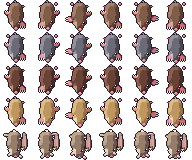
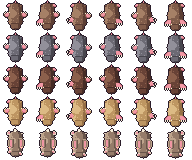
파 내려가기 그림: 위에서 본 뒷모습으로(머리 아래·등이 우리 쪽), Naïl 털빛 넷 + 모모 (0156)
- 사장: "머리가 아래로, 등을 우리가 보는 각도로. 앞발 귀엽게 파면서 내려가는.. 굴토끼도 동일한 카메라 앵글로".
- dig.py: 몸통 줄마다 폭으로 음영(왼쪽 밝음·오른쪽 그늘) + 어깨 하이라이트 + 목 주름 아래 어두운 머리.
  삽 앞발(넓은 분홍 손바닥 + 크림 발톱) 6동작, 뒷발 차기, 꼬리. 부위는 몸통 가장자리를 재서 겹쳐 붙인다.
  모모: 솜꼬리·등에 누운 긴 귀·귀 밑동 꽃·작은 앞발·큰 뒷발.

Claude-Session: https://claude.ai/code/session_01VNXEyeHwdhsn4oiHYXtNpM

diff --git a/tools/art/dig.py b/tools/art/dig.py
@@ -4,13 +4,15 @@
 실행: python3 tools/art/dig.py [출력 경로]   (기본 assets/art/dig.png)
 줄 0 Naïl 기본 털, 줄 1~3 털빛 1~3(nail.py FURS), 줄 4 돌아온 모모. 칸 0~5 = 한 번 긁는 동작(초당 12칸으로 돈다).
 
+카메라(사장 지시 2026-10-27): 머리가 아래(땅 쪽), 등이 위(우리 쪽). 위에서 내려다보는 뒷모습이라 얼굴은 안 보이고
+등·엉덩이·꼬리·뒷발바닥이 보인다. 앞발은 어깨 양옆에서 땅을 긁어 뒤(위)로 흙을 넘긴다.
+
 그리는 법:
-  - 몸은 타원 몇 개를 합친 덩어리. 칸마다 테두리까지의 거리로 기울기를 어림해 왼쪽 위 빛으로 세 단(d·b·h)을 고르고,
-    왼쪽 아래(배·주둥이 쪽)는 밝은 털(l). 외곽선(o)은 nail.py처럼 자동.
-  - 얼굴(눈·볼·코)과 앞발(분홍 손바닥 + 크림 발톱 다섯)은 글자 격자를 손으로 찍어 얹는다. 도형으로 그리면 작은 부위가 뭉개진다(0070).
-  - 머리를 아래로 한 옆모습: 위가 엉덩이·꼬리, 아래가 코, 얼굴은 오른쪽을 본다.
+  - 몸은 타원 몇 개를 합친 덩어리. 음영은 그 줄의 몸통 폭에서 어디쯤인가로 정한다(왼쪽 가장자리 밝음 h, 가운데 b,
+    오른쪽 가장자리 그늘 d) → 원통처럼 읽힌다. 등 가운데에는 털 결 점(h)을 드문드문.
+  - 앞발(삽: 분홍 손바닥 + 크림 발톱)·뒷발·꼬리·귀·꽃은 글자 격자를 손으로 찍어 얹는다. 도형으로 그리면 작은 부위가 뭉개진다(0070).
+  - 외곽선(o)은 nail.py처럼 자동.
 """
-import math
 import sys
 
 from PIL import Image
@@ -20,6 +22,11 @@ NAIL = {
     'o': (43, 29, 42), 'd': (92, 62, 52), 'b': (128, 92, 74), 'h': (166, 128, 102), 'l': (206, 172, 142),
     'p': (242, 152, 164), 'q': (200, 104, 124), 'c': (248, 238, 216), 'C': (206, 190, 164),
     'e': (26, 16, 32), 'w': (255, 255, 255), 'r': (236, 132, 132),
+}
+MOMO = {
+    'o': (43, 29, 42), 'd': (104, 84, 74), 'b': (150, 124, 106), 'h': (190, 164, 140), 'l': (228, 212, 192),
+    'p': (240, 150, 164), 'q': (196, 104, 124), 'c': (248, 238, 218), 'C': (214, 200, 182),
+    'n': (40, 26, 40), 'W': (255, 255, 255), 'r': (236, 132, 140), 'F': (255, 168, 196), 'Y': (255, 226, 120),
 }
 
 
@@ -35,38 +42,70 @@ def put(g, x, y, rows):
                 g[y + j][x + i] = ch
 
 
-def body(ellipses, light=(-0.6, -0.8), belly=None):
-    """타원 (cx, cy, rx, ry) 합집합을 세 단 명암으로. belly(x, y) -> bool 이면 그 칸은 밝은 털."""
+def flip(rows):
+    return [r[::-1] for r in rows]
+
+
+def inside_of(ellipses):
+    return [[any(((x + .5 - cx) / rx) ** 2 + ((y + .5 - cy) / ry) ** 2 <= 1 for cx, cy, rx, ry in ellipses)
+             for x in range(S)] for y in range(S)]
+
+
+def back(ellipses, grain=(), hump=None):
+    """등을 위에서 본 몸통: 줄마다 몸통 폭의 왼쪽 22%는 밝음(h), 오른쪽 26%는 그늘(d), 가운데 털(b).
+    맨 아래 두 줄(머리 끝)과 맨 위 줄(엉덩이 끝)은 그늘로 돌려 둥글게. grain = 털 결 점 (x, y)."""
+    ins = inside_of(ellipses)
     g = blank()
-    inside = [[any(((x + .5 - cx) / rx) ** 2 + ((y + .5 - cy) / ry) ** 2 <= 1 for cx, cy, rx, ry in ellipses)
-               for x in range(S)] for y in range(S)]
-    for y in range(S):
-        for x in range(S):
-            if not inside[y][x]:
-                continue
-            # 기울기: 가까운 테두리 방향(바깥으로 향하는 쪽)을 둘레 칸 수로 어림.
-            nx = ny = 0.0
-            for dy in range(-3, 4):
-                for dx in range(-3, 4):
-                    xx, yy = x + dx, y + dy
-                    out = not (0 <= xx < S and 0 <= yy < S and inside[yy][xx])
-                    if out:
-                        w = 1.0 / (dx * dx + dy * dy)
-                        nx += dx * w
-                        ny += dy * w
-            n = math.hypot(nx, ny)
-            k = 0.0 if n == 0 else (nx * light[0] + ny * light[1]) / n
-            edge = n > 0.35
-            if belly and belly(x, y):
-                ch = 'l'
-            elif edge and k > 0.35:
+    ys = [y for y in range(S) if any(ins[y])]
+    for y in ys:
+        xs = [x for x in range(S) if ins[y][x]]
+        x0, x1 = xs[0], xs[-1]
+        w = x1 - x0 + 1
+        for x in xs:
+            t = (x - x0 + 0.5) / w
+            if y >= ys[-1] - 1 or y == ys[0]:
+                ch = 'd' if t > 0.3 else 'b'
+            elif t < 0.22:
                 ch = 'h'
-            elif edge and k < -0.25:
+            elif t > 0.74:
                 ch = 'd'
             else:
                 ch = 'b'
             g[y][x] = ch
+    if hump:
+        # 어깨의 둥근 하이라이트(왼쪽 위 빛): 등이 부풀어 보인다.
+        hx, hy, hr = hump
+        for y in range(S):
+            for x in range(S):
+                if g[y][x] == 'b' and (x + .5 - hx) ** 2 + (y + .5 - hy) ** 2 <= hr * hr:
+                    g[y][x] = 'h'
+    for x, y in grain:
+        if g[y][x] == 'b':
+            g[y][x] = 'h'
     return g
+
+
+def head_shade(g, crease_y):
+    """머리(아래쪽)는 땅에 박히며 기울어 더 어둡다: crease_y 줄 가운데에 목 주름(d), 그 아래는 밝음(h)을 털(b)로."""
+    xs = [x for x in range(S) if g[crease_y][x] != '.']
+    if xs:
+        x0, x1 = xs[0], xs[-1]
+        for x in range(x0 + 2, x1 - 1):
+            if g[crease_y][x] in 'bh':
+                g[crease_y][x] = 'd'
+    for y in range(crease_y + 1, S):
+        for x in range(S):
+            if g[y][x] == 'h':
+                g[y][x] = 'b'
+
+
+def attach_x(ells, y, width, side, overlap=1):
+    """y줄에서 몸통 가장자리에 width 폭의 부위를 overlap만큼 겹쳐 붙일 x."""
+    ins = inside_of(ells)
+    xs = [x for x in range(S) if ins[min(max(y, 0), S - 1)][x]]
+    if not xs:
+        return 0 if side == 'L' else S - width
+    return xs[0] - width + overlap if side == 'L' else xs[-1] + 1 - overlap
 
 
 def outline(g):
@@ -84,152 +123,115 @@ def outline(g):
 
 
 # ---- Naïl ----
-# 엉덩이(위) → 어깨(가장 넓다) → 머리(아래로 좁아지는 주둥이).
-NAIL_BODY = [(15.5, 9.0, 6.5, 6.5), (15.5, 15.0, 8.0, 6.5), (15.5, 21.0, 6.5, 5.0), (15.5, 25.0, 4.0, 3.5)]
-
-# 얼굴: 오른쪽 아래(눈은 2×2 + 반사, 볼 홍조, 코는 둥근 분홍).
-FACE = [
-    "..we",
-    "..ee",
-    ".r..",
+# 위에서 본 두더지: 엉덩이(위, 둥글고 좁다) → 어깨(가장 넓다) → 머리(아래, 좁아지며 땅에 박힌다).
+NAIL_BODY = [(15.5, 9.5, 6.5, 6.5), (15.5, 15.5, 8.0, 7.0), (15.5, 21.5, 7.0, 5.5), (15.5, 26.0, 5.0, 3.5)]
+NAIL_GRAIN = [(13, 7), (17, 9), (12, 12), (18, 13), (14, 16), (17, 18), (13, 20), (16, 22)]
+TAIL = ["q", "p"]
+# 뒷발(위에서): 엉덩이 양옆. 찬 발은 발바닥(분홍)이 보인다.
+HIND_KICK = [".ppb", "pppb", "qqbb"]
+HIND_REST = ["bb", "db"]
+# 앞발(삽, 왼쪽 것. 오른쪽은 뒤집는다): 어깨에서 나온 팔(b)이 몸에 붙고, 넓은 분홍 손바닥에 크림 발톱.
+PAW_DOWN = [      # 내리긋기(코 옆, 발톱이 아래)
+    "...dbbb",
+    "..qpppb",
+    ".qppppb",
+    "qpppppd",
+    "pppppq.",
+    "c.c.c.c",
+    "c.c.c..",
 ]
-NOSE = [
-    ".pp.",
-    "pppq",
-    ".qq.",
+PAW_OUT = [       # 바깥으로 흙을 밀어냄: 손이 옆으로 누워 발톱이 바깥(왼쪽)을 향한다
+    "....pbbb",
+    "..cpppbb",
+    "c..ppppb",
+    "c.qpppb.",
+    "..cqqp..",
+    ".c......",
 ]
-# 앞발(삽): 분홍 손바닥 + 크림 발톱 다섯. 가까운(왼) 발은 밝게, 먼(오른) 발은 그늘 색(q·C).
-PAW_DOWN = [      # 아래로 내리긋는 손(발톱이 아래)
-    ".bpp.",
-    "bpppp",
-    "ppppp",
-    "pqppq",
-    "c.c.c",
-    "c.c.c",
+PAW_UP = [        # 뒤(위)로 당겨 올림: 손등(털)이 보이고 발톱이 위를 향한다
+    ".c.c.c",
+    "cbpppb",
+    "bppppb",
+    "bpppqb",
+    ".bqqb.",
 ]
-PAW_SIDE = [      # 옆으로 밀어내는 손(발톱이 바깥 = 왼쪽, 오른쪽 끝이 팔로 몸에 붙는다)
-    "..ppbb.",
-    "ccpppbb",
-    "..ppppb",
-    "ccqpppb",
-    "...qqb.",
-]
-PAW_UP = [        # 위로 당겨 올린 손(다음에 내리긋기 전, 발톱이 위)
-    "c.c.c",
-    "ppppp",
-    "bpppq",
-    ".bbb.",
-]
-
-
-def mirror(rows, far=True):
-    """오른쪽 발: 좌우를 뒤집고, 먼 쪽이라 그늘 색으로."""
-    m = {'p': 'q', 'c': 'C', 'b': 'd', 'h': 'b'} if far else {}
-    return [''.join(m.get(ch, ch) for ch in reversed(r)) for r in rows]
-
-
-def hind(g, left_up):
-    """뒷발: 엉덩이 양옆에서 흙을 찬다(위로 찬 발은 발바닥이 보인다)."""
-    if left_up:
-        put(g, 7, 3, ["pp", "qp"])
-        put(g, 22, 6, ["bq"])
-    else:
-        put(g, 8, 6, ["qb"])
-        put(g, 23, 3, ["pp", "pq"])
 
 
 def nail_frame(i):
-    # 칸마다 몸을 조금 늘이고 줄인다(1·4칸은 밀며 한 줄 내려감).
-    dy = [0, 0, 1, 0, 0, 1][i]
+    """여섯 칸: 0 둘 다 뒤로 당김, 1 왼손 내리긋기, 2 왼손 밀기, 3 오른손 내리긋기, 4 오른손 밀기, 5 둘 다 내리긋기.
+    밀거나 둘 다 긋는 칸은 몸 아래쪽이 한 줄 내려가(파고든다) 머리가 땅에 더 박힌다."""
+    dy = [0, 0, 1, 0, 1, 1][i]
     ell = [(cx, cy + dy * (k >= 2), rx, ry) for k, (cx, cy, rx, ry) in enumerate(NAIL_BODY)]
-    g = body(ell, belly=lambda x, y: x < 13 and y > 20 + dy and (x - 13) ** 2 + (y - 27) ** 2 < 40)
-    put(g, 17, 21 + dy, FACE)
-    put(g, 14, 27 + dy, NOSE)
-    put(g, 14, 1, ["qq"])  # 짧은 꼬리
-    L, R = (3, 15), (24, 15)
-    poses = [
-        ('up', 'down'), ('down', 'up'), ('side', 'up'),
-        ('up', 'down'), ('up', 'side'), ('down', 'down'),
-    ][i]
+    g = back(ell, [(x, y + dy * (y > 14)) for x, y in NAIL_GRAIN], hump=(12.5, 13.5, 4.2))
+    head_shade(g, 23 + dy)
+    put(g, 15, 1, TAIL)
+    up_left = i % 2 == 0
+    for side in ('L', 'R'):
+        kick = up_left == (side == 'L')
+        rows = HIND_KICK if kick else HIND_REST
+        if side == 'R':
+            rows = flip(rows)
+        put(g, attach_x(ell, 6, len(rows[0]), side), 4 if kick else 5, rows)
+    poses = [('up', 'up'), ('down', 'up'), ('out', 'up'), ('up', 'down'), ('up', 'out'), ('down', 'down')][i]
     for side, pose in zip(('L', 'R'), poses):
-        far = side == 'R'
-        base = {'down': PAW_DOWN, 'side': PAW_SIDE, 'up': PAW_UP}[pose]
-        rows = mirror(base) if far else base
-        if pose == 'down':
-            x, y = (7, 22) if not far else (20, 22)
-        elif pose == 'side':
-            x, y = (2, 16) if not far else (23, 16)
-        else:
-            x, y = (5, 11) if not far else (22, 11)
-        put(g, x, y + dy, rows)
-    hind(g, i % 2 == 0)
+        rows = {'down': PAW_DOWN, 'out': PAW_OUT, 'up': PAW_UP}[pose]
+        y = {'down': 18, 'out': 16, 'up': 12}[pose] + dy
+        ov = {'down': 3, 'out': 3, 'up': 2}[pose]
+        if side == 'R':
+            rows = flip(rows)
+        put(g, attach_x(ell, y + 1, len(rows[0]), side, ov), y, rows)
     return outline(g)
 
 
 # ---- 돌아온 모모(굴토끼) ----
-MOMO = {
-    'o': (43, 29, 42), 'd': (104, 84, 74), 'b': (150, 124, 106), 'h': (190, 164, 140), 'l': (228, 212, 192),
-    'p': (240, 150, 164), 'q': (196, 104, 124), 'c': (248, 238, 218), 'C': (214, 200, 182),
-    'n': (40, 26, 40), 'W': (255, 255, 255), 'r': (236, 132, 140), 'F': (255, 168, 196), 'Y': (255, 226, 120),
-}
-# 몸은 Naïl보다 조금 왼쪽(오른쪽에 눕힌 귀 자리), 엉덩이가 둥글고 머리가 작다.
-MOMO_BODY = [(14.0, 9.5, 6.5, 6.0), (14.0, 15.5, 7.0, 6.5), (14.5, 21.5, 6.0, 5.0), (15.0, 25.5, 3.8, 3.0)]
-# 귀 둘: 머리(아래)에서 등 쪽(위)으로 눕혔다. 몸에서 한 칸 떼어 외곽선이 사이에 들어간다.
-EAR = [(24.5, 15.0, 2.6, 6.5), (24.2, 8.0, 1.6, 3.0)]
-MOMO_FACE = [
-    "..nW",
-    "..nn",
-    ".r..",
+# 위에서 본 토끼: 둥근 엉덩이에 솜뭉치 꼬리, 긴 귀 둘이 등 위에 나란히 눕는다(머리에서 엉덩이 쪽으로).
+# 귀 밑동(머리 옆)에 꽃. 작은 앞발은 어깨 옆에서 긁고, 큰 뒷발은 엉덩이 양옆에서 찬다.
+MOMO_BODY = [(15.5, 9.5, 7.0, 6.5), (15.5, 15.5, 7.5, 6.5), (15.5, 21.5, 6.5, 5.0), (15.5, 25.5, 4.5, 3.0)]
+MOMO_GRAIN = [(12, 8), (19, 9), (13, 14), (18, 16), (12, 20), (18, 21)]
+COTTON = ["cc", "ccc", "cc"]
+# 귀(왼쪽 것): 등 위에 누운 긴 타원, 안쪽 분홍. 아래(머리 쪽)가 밑동.
+EAR = [
+    "..hhh.",
+    ".hbbbd",
+    "hbppbd",
+    "hbppbd",
+    "hbppbd",
+    "hbppbd",
+    "hbppbd",
+    "hbppbd",
+    ".hbpbd",
+    "..bbd.",
 ]
-MOMO_NOSE = [
-    ".p.",
-    "pqp",
-]
-FRONT = [         # 작은 앞발(밝은 털 + 분홍 발바닥)
+FLOWER = ["FYF", ".F."]
+M_FRONT = [       # 작은 앞발(밝은 털 + 분홍 발바닥)
     ".ll",
-    "lll",
-    "pp.",
+    "lpp",
+    "lp.",
 ]
-HIND_UP = [       # 옆으로 길게 찬 큰 뒷발(분홍 발바닥이 보인다)
-    "lllb",
-    "pppl",
-]
-HIND_DOWN = [     # 엉덩이 옆에 붙인 뒷발
-    "bb",
-    "ll",
-]
+M_HIND_KICK = [".ll", "lpp", "lpp", "lll"]
+M_HIND_REST = ["ll"]
 
 
 def momo_frame(i):
-    dy = [0, 0, 1, 0, 0, 1][i]
+    dy = [0, 0, 1, 0, 1, 1][i]
     ell = [(cx, cy + dy * (k >= 2), rx, ry) for k, (cx, cy, rx, ry) in enumerate(MOMO_BODY)]
-    g = body(ell, belly=lambda x, y: x < 12 and y > 19 + dy and (x - 12) ** 2 + (y - 26) ** 2 < 36)
-    ear = body([(cx, cy + dy, rx, ry) for cx, cy, rx, ry in EAR])
-    for y in range(S):
-        for x in range(S):
-            if ear[y][x] != '.':
-                # 귀 안쪽 한 줄은 분홍.
-                inner = (x == 25 and 8 + dy <= y <= 19 + dy) or (x == 24 and 11 + dy <= y <= 17 + dy)
-                g[y][x] = 'p' if inner else ear[y][x]
-    put(g, 21, 20 + dy, ["FYF", ".F."])  # 귀 밑동의 꽃
-    put(g, 15, 21 + dy, MOMO_FACE)
-    put(g, 14, 27 + dy, MOMO_NOSE)
-    put(g, 13, 2, ["cc", "ccc"] if i % 2 == 0 else ["ccc", ".cc"])  # 솜뭉치 꼬리
-    # 앞발: 번갈아 턱 밑을 긁는다.
-    lf = [(8, 25), (9, 27), (7, 23), (8, 25), (9, 27), (9, 26)][i]
-    rf = [(19, 27), (18, 25), (19, 27), (17, 24), (18, 26), (17, 26)][i]
-    put(g, lf[0], lf[1] + dy, FRONT)
-    put(g, rf[0], rf[1] + dy, mirror(FRONT))
-    # 뒷발: 번갈아 위로 크게 찬다.
-    if i % 3 == 0:
-        put(g, 4, 6, HIND_UP)
-        put(g, 19, 9, mirror(HIND_DOWN))
-    elif i % 3 == 1:
-        put(g, 7, 9, HIND_DOWN)
-        put(g, 20, 5, mirror(HIND_UP))
-    else:
-        put(g, 6, 7, HIND_DOWN)
-        put(g, 20, 8, mirror(HIND_DOWN))
+    g = back(ell, [(x, y + dy * (y > 14)) for x, y in MOMO_GRAIN], hump=(12.5, 13.0, 3.5))
+    head_shade(g, 23 + dy)
+    put(g, 14, 1, COTTON if i % 2 == 0 else [".cc", "ccc", ".cc"])
+    put(g, 8, 10 + dy, EAR)
+    put(g, 18, 10 + dy, flip(EAR))
+    put(g, attach_x(ell, 20 + dy, 3, 'L', 2), 19 + dy, FLOWER)
+    put(g, attach_x(ell, 20 + dy, 3, 'R', 2), 19 + dy, FLOWER)
+    fy = [22, 24, 23, 22, 24, 24][i], [24, 22, 24, 23, 22, 24][i]
+    put(g, attach_x(ell, fy[0] + dy + 1, 3, 'L', 1), fy[0] + dy, M_FRONT)
+    put(g, attach_x(ell, fy[1] + dy + 1, 3, 'R', 1), fy[1] + dy, flip(M_FRONT))
+    up_left = i % 2 == 0
+    for side in ('L', 'R'):
+        kick = up_left == (side == 'L')
+        rows = M_HIND_KICK if kick else M_HIND_REST
+        if side == 'R':
+            rows = flip(rows)
+        put(g, attach_x(ell, 6, len(rows[0]), side), 3 if kick else 5, rows)
     return outline(g)
 
 

diff --git a/docs/decisions/0156-depth-visuals.md b/docs/decisions/0156-depth-visuals.md
@@ -25,14 +25,17 @@
      - 작은 것: 조약돌·잔뿌리·지렁이·화석·보라 실·빛버섯.
      - 땅 위면 저녁 하늘과 풀 줄.
      - 가운데에는 파 온 굴과 파 내려가는 Naïl(모모면 모모)이 있다.
-     - 그림은 두 번 바꿨다.
-       - 처음에는 걷기 칸을 90° 돌려 썼다. 사장이 "똑같은 스프라이트 재활용하는것도 좀.. 쌈마이야"라고 했다.
-       - 다음에 16px 전용 4칸을 그렸지만 사장이 "새롭게 만들자"고 했다.
+     - 그림은 여러 번 바꿨다(모두 같은 날, 사장 피드백).
+       - 걷기 칸을 90° 돌려 쓴 것: "똑같은 스프라이트 재활용하는것도 좀.. 쌈마이야".
+       - 16px 전용 옆모습 4칸: "새롭게 만들자".
+       - 32px 옆모습: "정면을 보는건 어때? 아님 뒷면을 보여주던..". 정면을 그려 보니 "좀.. 기괴한데..?".
+       - 결정: **위에서 내려다본 뒷모습**. "귀여운 두더지가 땅을 파고 내려가는걸 우리가 보는건데, 머리가 아래로, 등을 우리가 보는 각도로. 앞발 귀엽게 파면서 내려가는.. 굴토끼도 동일한 카메라 앵글로."
      - 지금 그림은 이 장면 전용이다: `tools/art/dig.py` → `assets/art/dig.png`, 32×32 × 6칸, 초당 12칸.
        - 화면 가운데 혼자 크게 나오는 장면이라 게임 안 16px 그림의 제약을 따르지 않는다.
-       - 몸은 타원 몇 개를 합친 덩어리에 왼쪽 위 빛 세 단과 배의 밝은 털을 준다. 얼굴·앞발·뒷발은 글자 격자를 손으로 찍어 얹는다.
-       - Naïl: 좁은 엉덩이, 넓은 어깨, 아래로 향한 둥근 분홍 코. 몸 옆으로 붙은 삽 같은 앞발(분홍 손바닥 + 크림 발톱 다섯)이 위로 들기 → 내리긋기 → 옆으로 밀기를 번갈아 한다. 뒷발은 위에서 흙을 찬다. 털빛 셋도 줄이 따로 있다.
-       - 모모: 솜뭉치 꼬리, 몸에서 떼어 등 쪽으로 눕힌 끝이 뾰족한 귀(안쪽 분홍), 귀 밑동의 꽃, 작은 앞발로 턱 밑을 긁기, 옆으로 길게 차는 큰 뒷발.
+       - 몸은 타원 몇 개를 합친 덩어리. 음영은 그 줄의 몸통 폭에서 어디쯤인가로 정한다(왼쪽 가장자리 밝음, 오른쪽 그늘)에 어깨의 둥근 하이라이트를 더해 원통처럼 읽힌다. 머리 쪽은 목 주름 아래로 더 어둡다(땅에 박히는 중).
+       - 얼굴은 안 보인다. 앞발·뒷발·꼬리·귀·꽃은 글자 격자를 손으로 찍어 얹고, 몸통 가장자리를 줄마다 재서 겹쳐 붙인다(`attach_x`). 처음에는 자리를 숫자로 두어 부위가 몸에서 떠 있었다.
+       - Naïl: 좁은 엉덩이에 짧은 꼬리, 넓은 어깨, 땅에 박히는 머리. 양옆의 삽 앞발(넓은 분홍 손바닥 + 크림 발톱)이 뒤로 당김 → 왼손 내리긋기 → 왼손 바깥으로 밀기 → 오른손 내리긋기 → 오른손 밀기 → 둘 다 내리긋기를 돈다. 뒷발은 엉덩이 양옆에서 번갈아 차며 발바닥이 보인다. 털빛 셋도 줄이 따로 있다.
+       - 모모: 솜뭉치 꼬리, 등 위에 나란히 누운 긴 귀 둘(안쪽 분홍), 귀 밑동의 꽃, 어깨 옆의 작은 앞발, 엉덩이 옆의 큰 뒷발.
        - 굴 너비 18px, 흙 튀는 자리도 그림 크기에 맞췄다.
      - 35m부터 어두워져 Naïl 둘레만 보인다.
    - 화면 아래 가운데에 "지하 N m"(`depth_m`)가 오른다. 단면이 화면을 반 넘게 덮는 동안은 HUD 대신 이것만 그린다.
